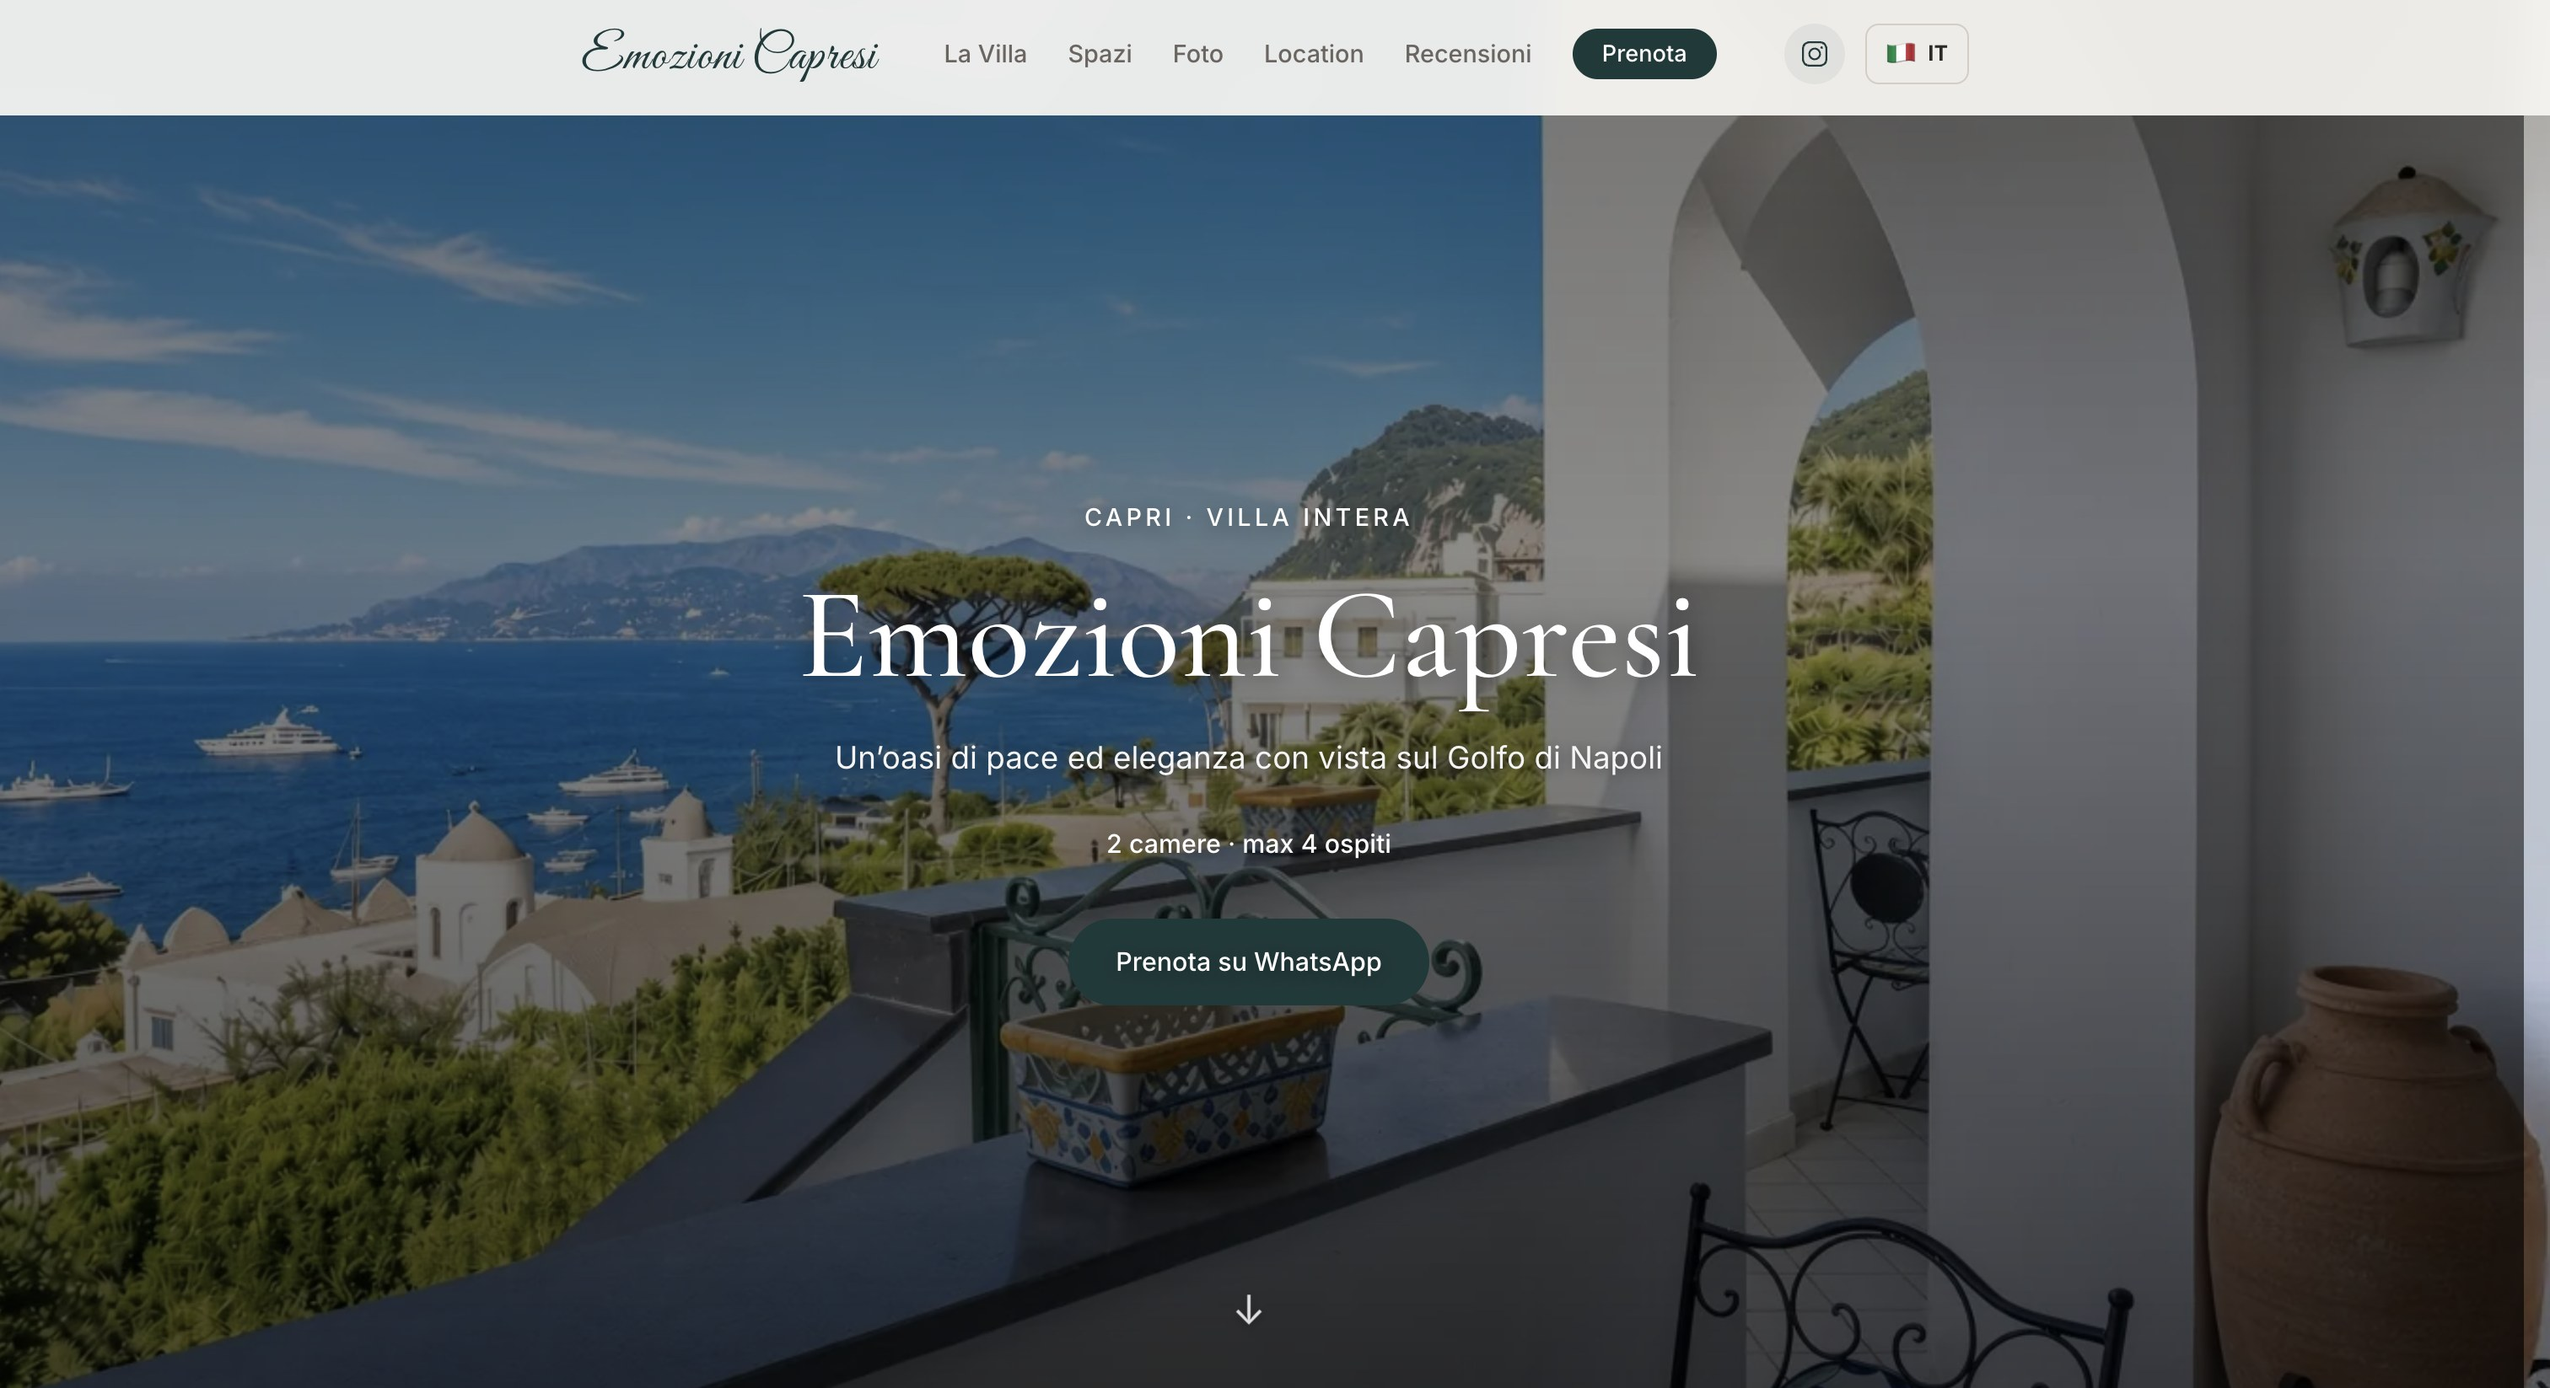
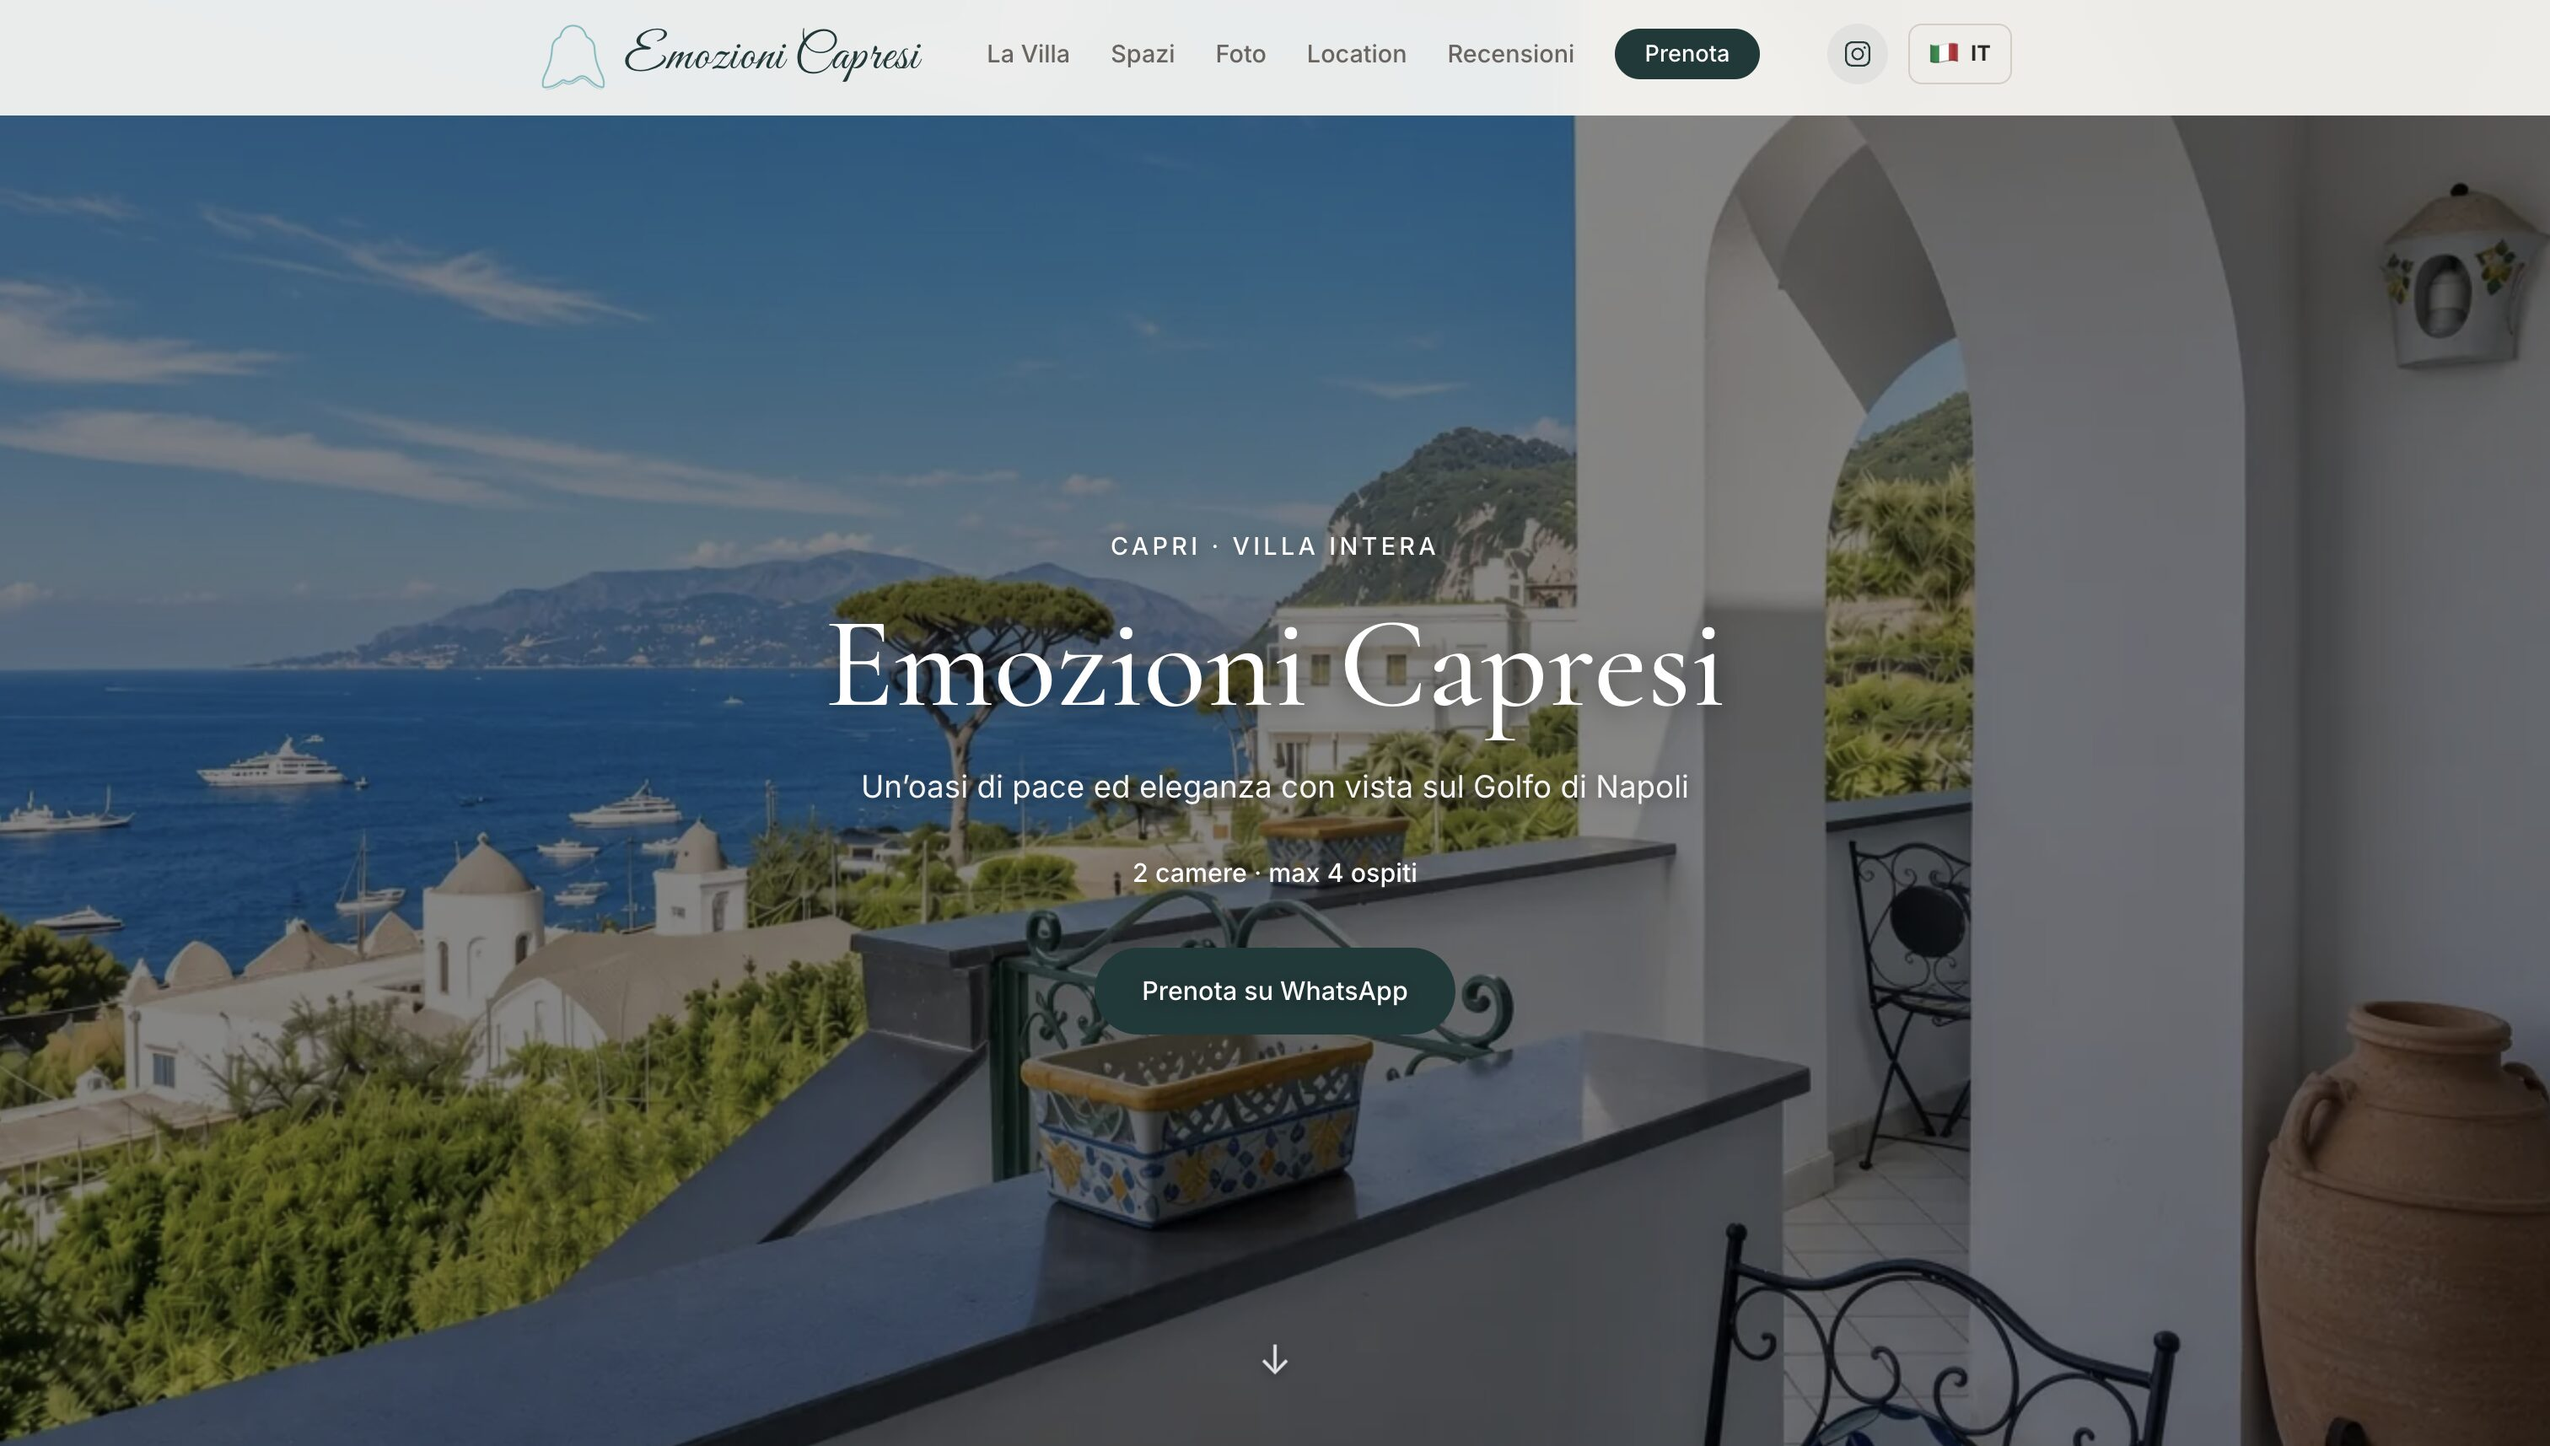
Replace Emozioni Capresi portfolio screenshot
Use the new desktop hero shot with the same webp/jpeg and srcset variants as the other portfolio media.

diff --git a/index.html b/index.html
@@ -186,7 +186,7 @@
             <div class="shot-screen">
               <picture>
                 <source type="image/webp" srcset="images/portfolio/emozioni-capresi-sm.webp 1200w, images/portfolio/emozioni-capresi.webp 3024w" sizes="(max-width: 960px) 92vw, 360px">
-                <img src="images/portfolio/emozioni-capresi-sm.jpg" srcset="images/portfolio/emozioni-capresi-sm.jpg 1200w, images/portfolio/emozioni-capresi.jpg 3024w" sizes="(max-width: 960px) 92vw, 360px" alt="Sito Emozioni Capresi, villa a Capri" width="3024" height="1647" decoding="async">
+                <img src="images/portfolio/emozioni-capresi-sm.jpg" srcset="images/portfolio/emozioni-capresi-sm.jpg 1200w, images/portfolio/emozioni-capresi.jpg 3024w" sizes="(max-width: 960px) 92vw, 360px" alt="Sito Emozioni Capresi, villa a Capri" width="3024" height="1715" decoding="async">
               </picture>
             </div>
             <figcaption>
